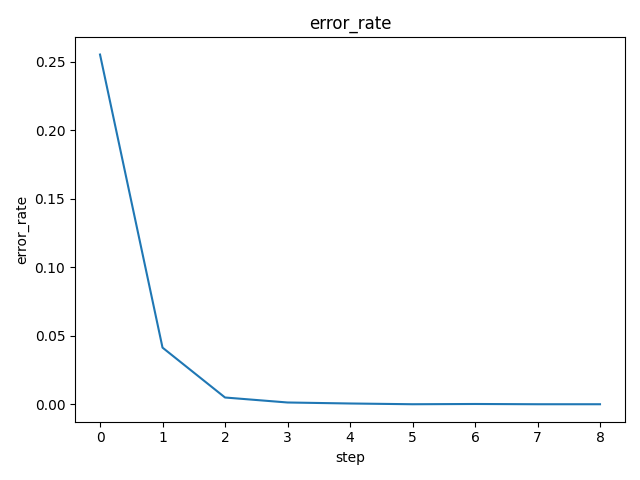
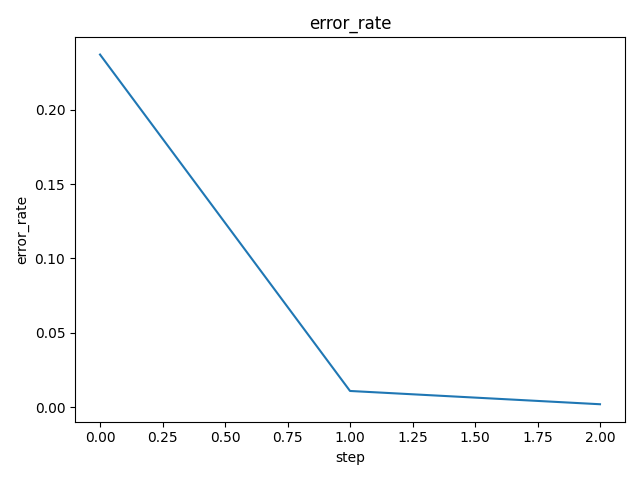
adding evaluation stage

diff --git a/src/stages/evaluate.py b/src/stages/evaluate.py
@@ -1,0 +1,48 @@
+import json
+
+from fastai.vision.all import *
+from sklearn.metrics import accuracy_score, classification_report
+import numpy as np
+
+from src.utils.get_images import get_images
+
+from box import ConfigBox
+from ruamel.yaml import YAML
+
+yaml = YAML(typ="safe")
+
+def get_x(r): return r['img']
+def get_y(r): return r['label']
+
+
+def evaluate():
+# Load the trained model
+    params = ConfigBox(yaml.load(open("params.yaml", encoding="utf-8")))
+    learn = load_learner(params['model']['save_path'])
+
+    test_df = pd.read_csv(params['data_load']['test_data_path'])
+    test_df = get_images(test_df)
+    
+    # Load the evaluation data
+    dl = learn.dls.test_dl(list(test_df['img']))
+    inp,preds,_,dec_preds = learn.get_preds(dl=dl, with_input=True, with_decoded=True)
+    test_df['Label_pred'] = dec_preds
+
+
+
+    # Convert the predictions and targets to numpy arrays
+    preds = np.asarray(test_df['Label_pred'])
+    targets = np.asarray(test_df['label'])
+    print(preds, targets)
+
+
+    # Calculate the evaluation metrics
+    acc = accuracy_score(targets, preds)
+
+    # Save the evaluation results to a JSON file
+    results = {'accuracy': float(acc)} #, 'classification_report': report}
+    with open(params['evaluate']['metrics_file'], 'w') as f:
+        json.dump(results, f)
+
+if __name__ == "__main__":
+    evaluate()

diff --git a/src/stages/train.py b/src/stages/train.py
@@ -5,25 +5,19 @@ from box import ConfigBox
 from dvclive.fastai import DVCLiveCallback
 from fastai.vision.all import *
 
-
 from ruamel.yaml import YAML
 
 yaml = YAML(typ="safe")
 
-
+def get_x(r): return r['img']
+def get_y(r): return r['label']
 
 def train():
     params = ConfigBox(yaml.load(open("params.yaml", encoding="utf-8")))
-    print(params)
 
     train_df = pd.read_csv(params['data_load']['train_data_path'])
     train_df = get_images(train_df)
 
-    test_df = pd.read_csv(params['data_load']['test_data_path'])
-    test_df = get_images(test_df)
-
-    def get_x(r): return r['img']
-    def get_y(r): return r['label']
 
     dblock = DataBlock(blocks=(ImageBlock, CategoryBlock), get_x = get_x, get_y=get_y)
     dls = dblock.dataloaders(train_df)
@@ -34,7 +28,8 @@ def train():
         **params.train.fine_tune_args,
         cbs=[DVCLiveCallback(dir="reports/train", report="md")],
     )
-    learn.export(fname=(Path("models") / "model.h5").absolute())
+    
+    learn.export("models/model.pkl")
 
 
 if __name__ == "__main__":

diff --git a/reports/train/report.md b/reports/train/report.md
@@ -2,15 +2,15 @@
 
 params.yaml
 
-| model      |   batch_size |   batch_per_epoch | frozen   |   frozen_idx | transforms                                                                                                                                         |
-|------------|--------------|-------------------|----------|--------------|----------------------------------------------------------------------------------------------------------------------------------------------------|
-| Sequential |           64 |               343 | False    |            0 | [Pipeline: train.<locals>.get_x -> PILBase.create, Pipeline: train.<locals>.get_y -> Categorize -- {'vocab': None, 'sort': True, 'add_na': False}] |
+| model      |   batch_size |   batch_per_epoch | frozen   |   frozen_idx | transforms                                                                                                           |
+|------------|--------------|-------------------|----------|--------------|----------------------------------------------------------------------------------------------------------------------|
+| Sequential |           64 |               343 | False    |            0 | [Pipeline: get_x -> PILBase.create, Pipeline: get_y -> Categorize -- {'vocab': None, 'sort': True, 'add_na': False}] |
 
 metrics.json
 
-| train                          | eval                             |   error_rate |   step |
-|--------------------------------|----------------------------------|--------------|--------|
-| {'loss': 0.002702858531847596} | {'loss': 2.1318168364814483e-05} |            0 |      8 |
+| train                         | eval                           |   error_rate |   step |
+|-------------------------------|--------------------------------|--------------|--------|
+| {'loss': 0.06067444756627083} | {'loss': 0.011975251138210297} |   0.00200328 |      2 |
 
 ![static/error_rate](static/error_rate.png)
 
